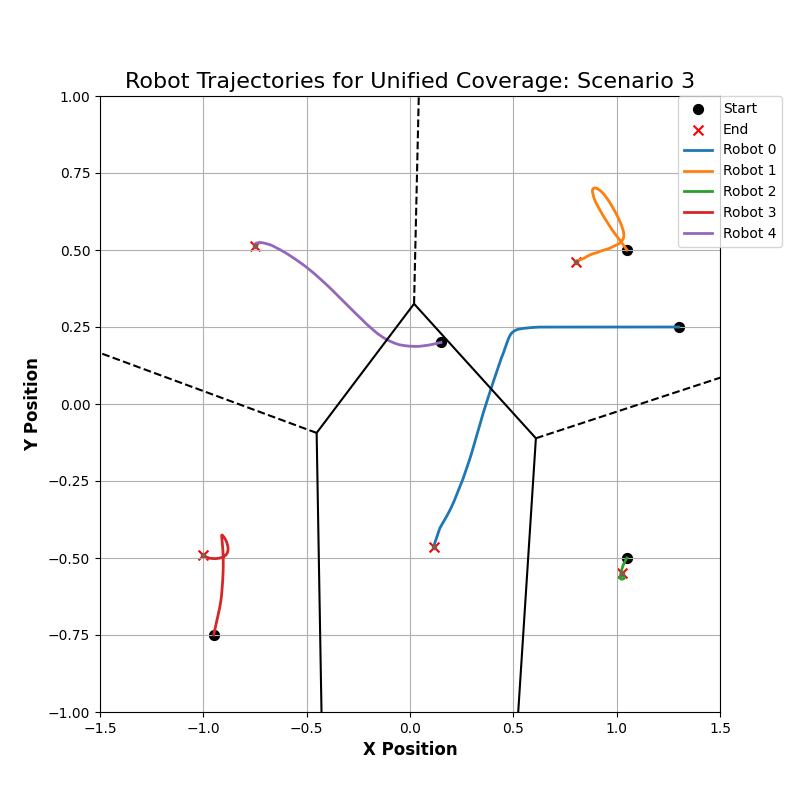
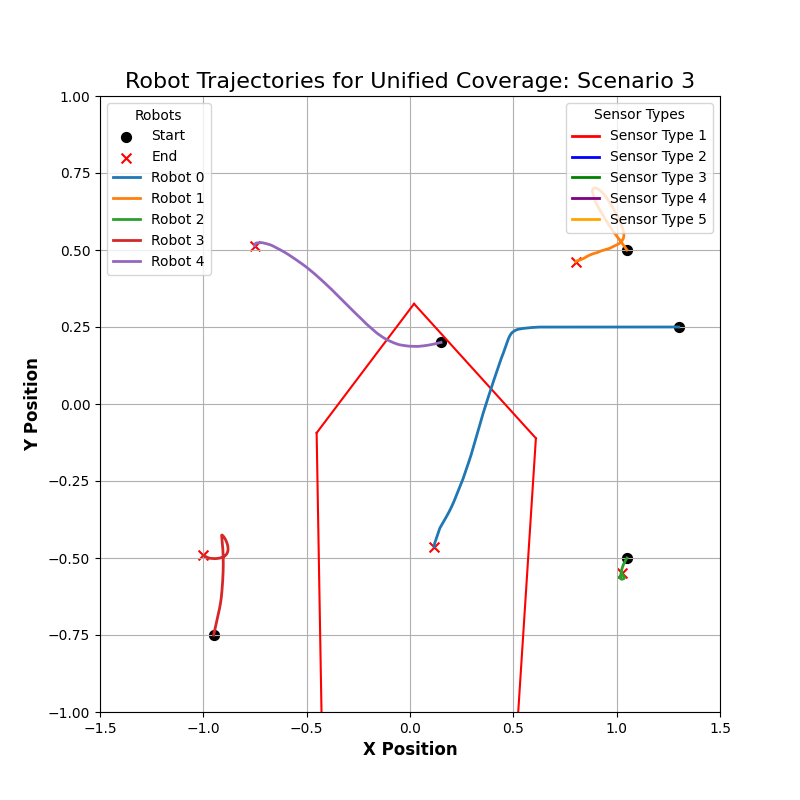
Added different voronoi region borders for unified

diff --git a/rps/examples/coverage_control/coverage_heterogenous.py b/rps/examples/coverage_control/coverage_heterogenous.py
@@ -34,7 +34,7 @@ def run_unified_coverage(scenario_num):
     r = robotarium.Robotarium(
         number_of_robots=N,
         show_figure=True,
-        sim_in_real_time=True,
+        sim_in_real_time=False,
         initial_conditions=initial_positions[:N].T
     )
 
@@ -158,15 +158,54 @@ def run_unified_coverage(scenario_num):
             'Sc': generalized_cost
         }
 
-    def plot_robot_trajectories(robot_trajectories, initial_positions, final_positions):
+    def plot_robot_trajectories(robot_trajectories, initial_positions, final_positions, sensor_types, scenario_num):
         """
-        Plots the robot trajectories along with their final Voronoi partitions.
+        Plots the robot trajectories along with their final Voronoi partitions,
+        with border colors based on sensor type and correct handling of boundary edges.
         """
         fig, ax = plt.subplots(figsize=(8, 8))
 
-        # Convert trajectory lists to arrays
-        for i in range(N):
-            trajectory = np.array(robot_trajectories[i])  # Convert list to numpy array
+        # Compute Voronoi partition for final positions
+        vor = Voronoi(final_positions)
+
+        # Define colors for sensor types
+        sensor_type_colors = {
+            1: 'red',  # Sensor Type 1
+            2: 'blue',  # Sensor Type 2,
+            3: 'green',  # Sensor Type 3
+            4: 'purple',  # Sensor Type 4
+            5: 'orange',  # Sensor Type 5
+            'default': 'black'  # Default color
+        }
+
+        # Iterate through Voronoi ridges (edges) to draw them with colors based on robot sensor type
+        for ridge_index, ridge in enumerate(vor.ridge_vertices):
+            # Check if this ridge is infinite
+            if -1 in ridge:
+                continue  # Skip infinite ridges
+
+            # Get vertices of the ridge
+            v1, v2 = vor.vertices[ridge]
+
+            # Determine robots associated with this ridge
+            p1, p2 = vor.ridge_points[ridge_index]
+
+            # Determine sensor type for robot p1 (primary robot for this region)
+            robot_sensor_type = None
+            for sensor_type, robots in sensor_types.items():
+                if p1 in robots:
+                    robot_sensor_type = sensor_type
+                    break
+
+            # Choose color based on sensor type
+            color = sensor_type_colors.get(robot_sensor_type, sensor_type_colors['default'])
+
+            # Plot the ridge as a solid line (since it is a finite edge)
+            ax.plot([v1[0], v2[0]], [v1[1], v2[1]], color=color, linestyle='-', linewidth=1.5)
+
+        # Plot robot trajectories
+        for i in range(len(robot_trajectories)):
+            trajectory = np.array(robot_trajectories[i])
 
             # Mark initial and final positions
             ax.scatter(initial_positions[i, 0], initial_positions[i, 1], c='black', marker='o', s=50,
@@ -177,19 +216,35 @@ def run_unified_coverage(scenario_num):
             # Plot trajectory
             ax.plot(trajectory[:, 0], trajectory[:, 1], label=f"Robot {i}", linewidth=2)
 
-        # Compute Voronoi partition for final positions
-        vor = Voronoi(final_positions)
+        # Add a legend for sensor types and robot numbers
+        from matplotlib.lines import Line2D
 
-        # Plot Voronoi partitions
-        voronoi_plot_2d(vor, ax=ax, show_vertices=False, line_colors='black', line_width=1.5, alpha=0.6)
+        # Create legend elements for sensor types
+        sensor_legend_elements = [
+            Line2D([0], [0], color='red', lw=2, label='Sensor Type 1'),
+            Line2D([0], [0], color='blue', lw=2, label='Sensor Type 2'),
+            Line2D([0], [0], color='green', lw=2, label='Sensor Type 3'),
+            Line2D([0], [0], color='purple', lw=2, label='Sensor Type 4'),
+            Line2D([0], [0], color='orange', lw=2, label='Sensor Type 5')
+        ]
+
+        # Create a figure legend for sensor types
+        first_legend = ax.legend(handles=sensor_legend_elements, loc='upper right',
+                                 title="Sensor Types")
+
+        # Add the first legend manually to the axis
+        ax.add_artist(first_legend)
+
+        # Create a second legend for robot trajectories
+        # This will use the existing line colors from the trajectory plots
+        ax.legend(loc='upper left', title="Robots")
 
         # Configure plot
-        plt.xlim(x_min, x_max)
-        plt.ylim(y_min, y_max)
+        plt.xlim(-1.5, 1.5)
+        plt.ylim(-1.0, 1.0)
         plt.title(f"Robot Trajectories for Unified Coverage: Scenario {scenario_num}", fontsize=16)
         plt.xlabel("X Position", fontsize=12, fontweight='bold')
         plt.ylabel("Y Position", fontsize=12, fontweight='bold')
-        plt.legend(loc='upper right', bbox_to_anchor=(1.10, 1), borderaxespad=0.)
         plt.grid()
 
         # Save plot
@@ -274,7 +329,7 @@ def run_unified_coverage(scenario_num):
     initial_positions = np.array([robot_trajectories[i][0] for i in range(N)])  # First recorded position
 
     # Plot trajectories
-    plot_robot_trajectories(robot_trajectories, initial_positions, final_positions)
+    plot_robot_trajectories(robot_trajectories, initial_positions, final_positions,sensor_types, scenario_num)
 
     # Save cost history to CSV
     df_results = pd.DataFrame({
